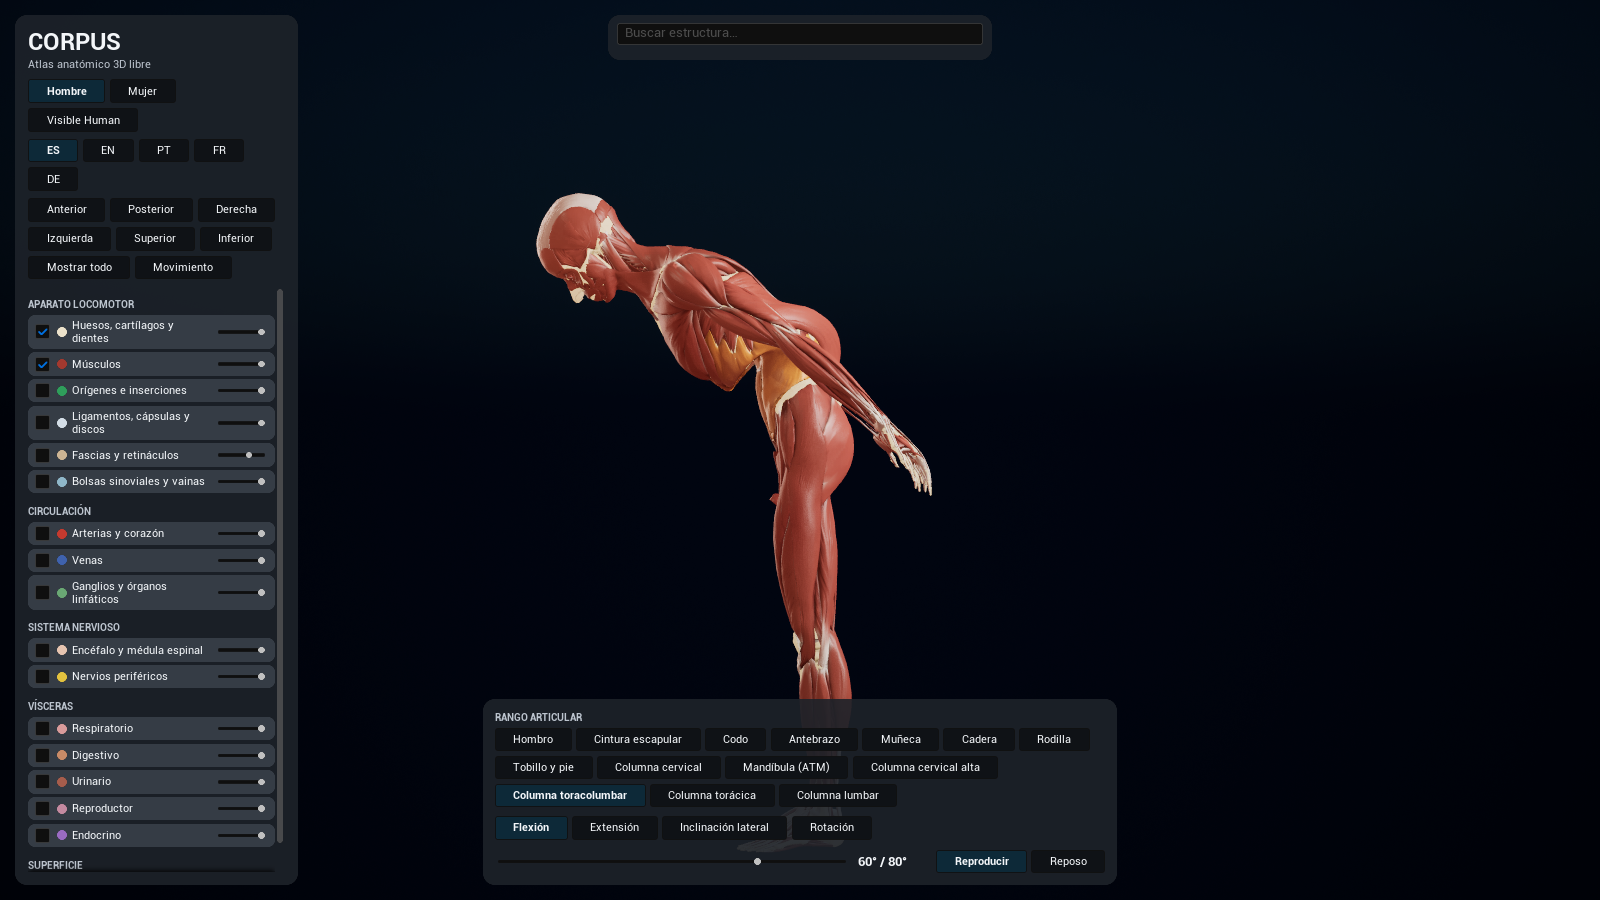
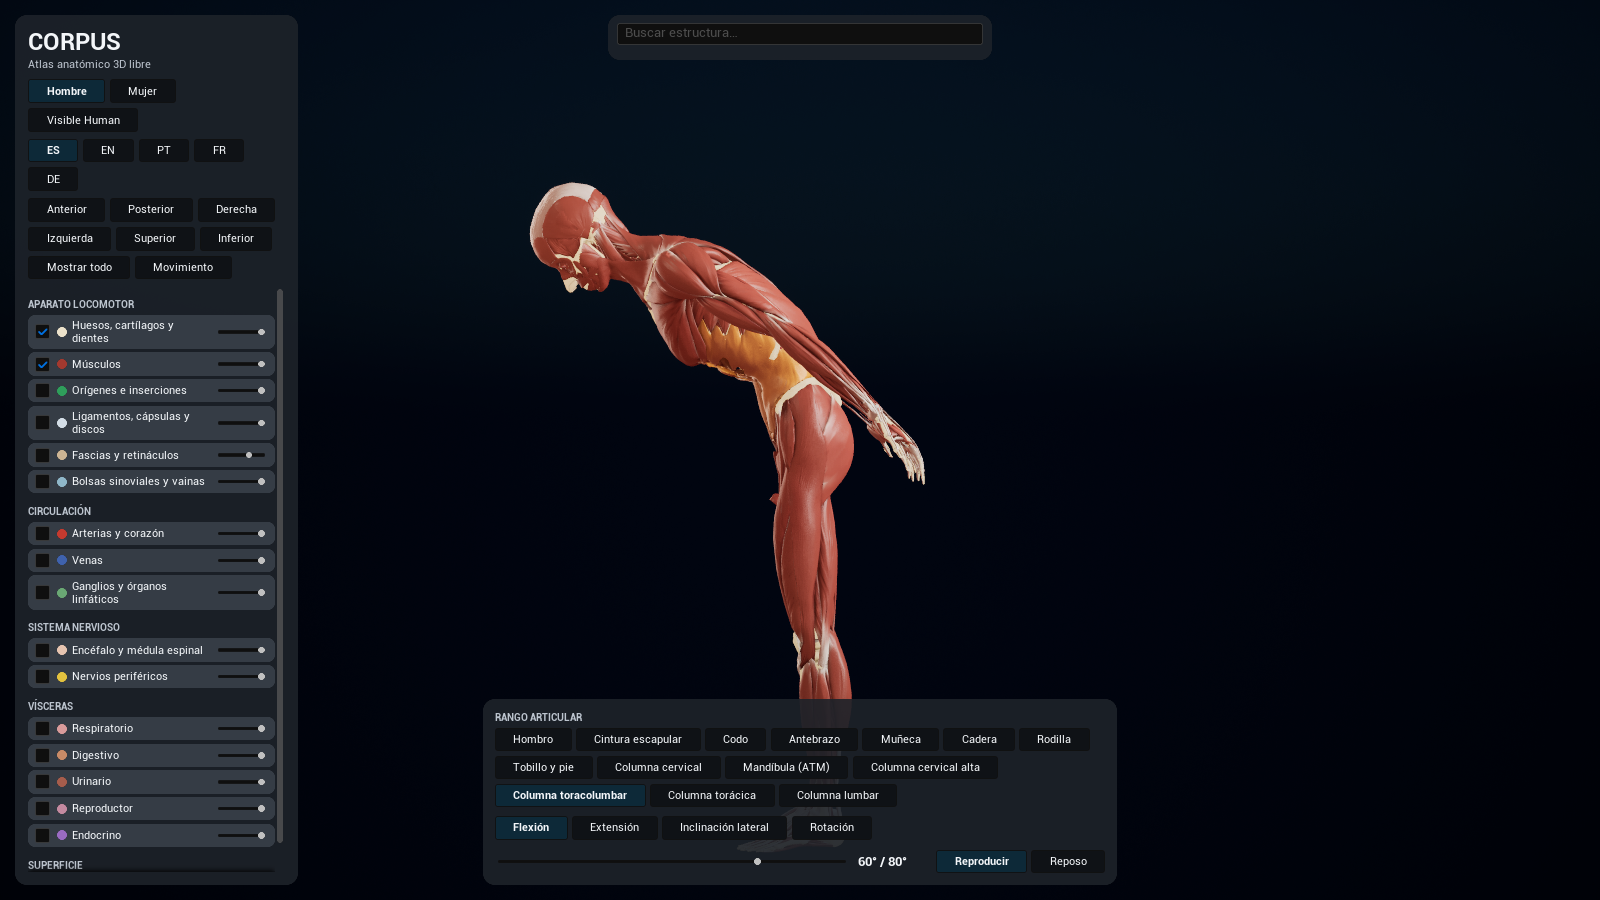
Unreal movimiento: tronco repartido y dorsal, pectoral y redondo mayor pegados al torax
La flexion de tronco se reparte entre S1, L3 y T12 (sin joroba lumbar). Dorsal ancho, pectoral mayor y
redondo mayor: solo la zona del tendon sigue al humero y el material los mantiene sobre la parrilla
costal (contorno del torax en la textura de postura). Capturas mov_00 a mov_12 rehechas.

Changed region(s): [[0.3125, 0.1867, 0.5938, 0.56]]

diff --git a/tools/unreal/movimiento.js b/tools/unreal/movimiento.js
@@ -29,8 +29,9 @@ try { ({ chromium } = require('playwright')); }
 catch (e) { console.error('Falta Playwright: npm i playwright (o NODE_PATH a una instalación existente)'); process.exit(1); }
 
 const RAIZ = path.resolve(__dirname, '..', '..');
-const URL = process.argv[2] || 'http://localhost:8765/index.html';
-const IMP = path.resolve(process.argv[3] || path.join(RAIZ, 'unreal', 'CorpusAtlas', 'Importar'));
+const ARGS = process.argv.slice(2).filter(a => !a.startsWith('--'));   // --sin-pesos: solo posturas (no toca los GLB)
+const URL = ARGS[0] || 'http://localhost:8765/index.html';
+const IMP = path.resolve(ARGS[1] || path.join(RAIZ, 'unreal', 'CorpusAtlas', 'Importar'));
 const CUERPOS = ['hombre', 'mujer'];            // el Visible Human no se mueve en la web
 const ROM_FUERA = ['dedos', 'pulgar', 'dedospie'];
 const PASO = 5;
@@ -99,6 +100,17 @@ const PREPARA = `(async()=>{
     const c=new V3((x0+x1)/2,(y0+y1)/2,(z0+z1)/2);let r=0;for(let i=0;i<n;i++)r=Math.max(r,Math.hypot(pos[i*3]-c.x,pos[i*3+1]-c.y,pos[i*3+2]-c.z));
     const m={userData:{c:{en,side},sys},geometry:{attributes:{position:{array:pos}},boundingSphere:{center:c,radius:r},index:null}};
     const Ws=L.map(k=>{let W=null;try{W=weightsFor(m,jn(k));}catch(e){W=null;}if(/^ankle_st_/.test(k)&&en==='Talus')W=null;return [W,!!(m.userData.lin&&m.userData.lin[jn(k)])];});
+    /* Dorsal ancho, pectoral mayor y redondo mayor (mejora sobre la web): sus pesos de hombro van a escalones (sectores angulares de shRig) y dejan que
+       medio vientre muscular gire con el brazo; la web lo arregla después relajando la malla en la CPU. Aquí: solo los
+       últimos centímetros junto al tendón siguen al húmero (la inserción está a ~6 cm de la articulación), el vientre
+       queda sobre el tórax y el músculo se estira entre ambos. Peso suave por distancia al punto de inserción. */
+    const TD=[[/^Latissimus dorsi muscle$/,/^(shoulder|acr|sc)$/,0.02,0.09],[/^(Sternocostal head|Abdominal part) of pectoralis major muscle$/,/^(shoulder|acr|sc)$/,0.03,0.11],
+      [/^Clavicular head of pectoralis major muscle$/,/^(shoulder|acr)$/,0.03,0.09],[/^Teres major muscle$/,/^shoulder$/,0.02,0.07]].find(x=>x[0].test(en));
+    if(TD&&(side==='derecho'||side==='izquierdo')){const Sd=side==='derecho'?'R':'L',seg=SEGS['arm_'+Sd],A=seg[0],B=seg[1],ax=B.x-A.x,ay=B.y-A.y,az=B.z-A.z,L2=ax*ax+ay*ay+az*az;
+      let bi=0,bd=1e9;for(let i=0;i<n;i++){const px=pos[i*3]-A.x,py=pos[i*3+1]-A.y,pz=pos[i*3+2]-A.z;let t=(px*ax+py*ay+pz*az)/L2;t=t<0?0:t>1?1:t;const dx=px-ax*t,dy=py-ay*t,dz=pz-az*t,d=dx*dx+dy*dy+dz*dz+(t<0.06?0.0004:0);if(d<bd){bd=d;bi=i;}}
+      const Ix=pos[bi*3],Iy=pos[bi*3+1],Iz=pos[bi*3+2],Wd=new Float32Array(n);
+      for(let i=0;i<n;i++){let t=(Math.hypot(pos[i*3]-Ix,pos[i*3+1]-Iy,pos[i*3+2]-Iz)-TD[2])/TD[3];t=t<0?0:t>1?1:t;Wd[i]=1-t*t*(3-2*t);}
+      L.forEach((k,q)=>{const [nd,sd]=k.split('_');if(sd===Sd&&TD[1].test(nd))Ws[q]=[Wd,true];else if(/^(elbow|fore|wrist|hip|knee)$/.test(nd)||(sd&&sd!==Sd&&/^(shoulder|acr|sc)$/.test(nd)))Ws[q]=[null,false];});}
     /* articulaciones que mueven la pieza (algún vértice con peso ≥ 0,002), en el orden en que las aplica deform() */
     let S=[];for(let k=0;k<NA;k++){const W=Ws[k][0];if(!W)continue;let mx=0;for(let v=0;v<n;v++)if(W[v]>mx)mx=W[v];if(mx>=0.002)S.push({i:k+1,W,lin:Ws[k][1],mx});}
     /* articulaciones seguidas (en este orden) que pesan lo mismo en toda la pieza van juntas en un hueco, hasta 3:
@@ -156,19 +168,56 @@ const PREPARA = `(async()=>{
     rom.push({ id: j.id, n: j.n, lados: j.sided, movs });
     console.log('  ROM %s: %d movimientos', j.id, movs.length);
   }
-  const salida = { version: 1, unidades: 'm, glTF (Y arriba)', paso: PASO, ax: R.AX, ax_de: R.L.slice(-3),
-    articulaciones: R.L.map((k, i) => ({ id: k, pivote: R.piv[i] })), rom };
+  /* ── mejora sobre la web: la columna toracolumbar no gira en una sola bisagra ──
+     En la web todo el giro de «tronco» ocurre en L3 y la zona lumbar hace joroba. Aquí se reparte entre la charnela
+     lumbosacra (lumb, S1), L3 (trunk) y la toracolumbar (thor, T12), con el reparto fisiológico de cada movimiento:
+     la flexión es sobre todo lumbar; la rotación, casi toda torácica (las carillas lumbares la bloquean). */
+  const REPARTO = [[0.42, 0.26, 0.32], [0.45, 0.25, 0.30], [0.30, 0.28, 0.42], [0.08, 0.17, 0.75]];   // flexión, extensión, inclinación, rotación → [lumb, trunk, thor]
+  const iL = R.L.indexOf('lumb'), iT = R.L.indexOf('trunk'), iH = R.L.indexOf('thor');
+  const tronco = rom.find(r => r.id === 'tronco');
+  if (tronco) tronco.movs.forEach((M, mi) => { const rp = REPARTO[mi] || REPARTO[0];
+    for (const S of ['R', 'L']) if (M[S]) M[S] = M[S].map(fr => { const out = [];
+      for (let k = 0; k < fr.length; k += 8) { const o = fr.slice(k, k + 8);
+        if (o[0] !== iT) { out.push(o); continue; }
+        [[iL, rp[0]], [iT, rp[1]], [iH, rp[2]]].forEach(([i, f]) => out.push([i, o[1], o[2], o[3], Math.round(o[4] * f * 1e5) / 1e5, 0, 0, 0])); }
+      return out.sort((a, b) => a[0] - b[0]).flat(); }); });
+
+  /* ── contorno de la parrilla costal por alturas (para pegar el dorsal ancho al tórax, como latHug de la web) ──
+     Cada centímetro de altura: elipse que envuelve costillas, cartílagos, esternón y vértebras torácicas
+     [centro z, radio x, radio z]. El material mide con ella cuánto se separa un punto de la pared torácica. */
+  const torax = (() => { const g = leeGLB(path.join(IMP, 'hombre', 'oseo.glb')), y0 = 1.06, dy = 0.0125, n = 32;
+    const caja = Array.from({ length: n }, () => [1e9, -1e9, 1e9, -1e9]);
+    for (const nodo of g.j.nodes) { if (nodo.mesh === undefined || !/\brib\b|^Costal cartilage|sternum|Xiphoid|^Vertebra T\d+/i.test((nodo.extras || {}).en || '')) continue;
+      const P = vista(g, g.j.meshes[nodo.mesh].primitives[0].attributes.POSITION);
+      for (let i = 0; i < P.length; i += 3) { const k = Math.round((P[i + 1] - y0) / dy); if (k < 0 || k >= n) continue; const c = caja[k];
+        if (P[i] < c[0]) c[0] = P[i]; if (P[i] > c[1]) c[1] = P[i]; if (P[i + 2] < c[2]) c[2] = P[i + 2]; if (P[i + 2] > c[3]) c[3] = P[i + 2]; } }
+    const f = v => Math.round(v * 1e4) / 1e4;
+    /* la caja se suaviza con sus vecinas: las costillas dejan huecos entre una y otra */
+    const filas = caja.map((c, k) => { let a = [0, 0, 0, 0], m = 0; for (let d = -2; d <= 2; d++) { const q = caja[k + d]; if (!q || q[0] > q[1]) continue; for (let t = 0; t < 4; t++) a[t] += q[t]; m++; }
+      if (!m) return [0, 0, 0]; a = a.map(v => v / m); return [f((a[2] + a[3]) / 2), f((a[1] - a[0]) / 2), f((a[3] - a[2]) / 2)]; });
+    return { y0, dy, filas }; })();
+  const abrazo = {};
+  for (const c of CUERPOS) { const g = leeGLB(path.join(IMP, c, 'muscular.glb'));
+    abrazo[c] = g.j.nodes.filter(nd => /^(Latissimus dorsi muscle|Teres major muscle|.* of pectoralis major muscle)$/.test((nd.extras || {}).en || '')).map(nd => nd.name); }
+
+  const SIN_PESOS = process.argv.includes('--sin-pesos');
+  const SOLO = (process.argv.find(a => a.startsWith('--solo=')) || '').slice(7);   // --solo=muscular: rehace los pesos de esa capa nada más
+  const jf = path.join(IMP, 'datos', 'movimiento.json');
+  const antes = (SIN_PESOS || SOLO) && fs.existsSync(jf) ? JSON.parse(fs.readFileSync(jf, 'utf8')) : null;
+  const salida = { version: 2, unidades: 'm, glTF (Y arriba)', paso: PASO, ax: R.AX, ax_de: R.L.slice(-3),
+    articulaciones: R.L.map((k, i) => ({ id: k, pivote: R.piv[i] })), rom, torax, abrazo, piezas: antes ? antes.piezas : {} };
   fs.mkdirSync(path.join(IMP, 'datos'), { recursive: true });
-  fs.writeFileSync(path.join(IMP, 'datos', 'movimiento.json'), JSON.stringify(salida));
+  fs.writeFileSync(jf, JSON.stringify(salida));
   console.log('Posturas: datos/movimiento.json');
+  if (SIN_PESOS) { console.log('Pesos: sin tocar (--sin-pesos)'); await b.close(); return; }
 
   /* ── pesos ── */
   let tv = 0, tm = 0, to = 0;
-  salida.piezas = {};
+  if (!SOLO) salida.piezas = {};
   for (const c of CUERPOS) {
-    const P = salida.piezas[c] = {};
+    const P = salida.piezas[c] = salida.piezas[c] || {};
     const dir = path.join(IMP, c);
-    for (const f of fs.readdirSync(dir).filter(x => x.endsWith('.glb'))) {
+    for (const f of fs.readdirSync(dir).filter(x => x.endsWith('.glb') && (!SOLO || x === SOLO + '.glb'))) {
       const g = leeGLB(path.join(dir, f)), nuevos = [];
       let mv = 0, ov = 0, nv = 0;
       for (let ni = 0; ni < g.j.nodes.length; ni++) {

diff --git a/unreal/CorpusAtlas/Content/Python/corpus_importar.py b/unreal/CorpusAtlas/Content/Python/corpus_importar.py
@@ -147,16 +147,50 @@ HLSL_POSTURA = r"""
 float3 g = float3(P.x, P.z, P.y) * 0.01;
 float3 g0 = g;
 float4 qt = float4(0, 0, 0, 1);
-float js[8] = { J0, J1, J2, J3, J4, J5, J6, J7 };
-float ws[8] = { U0.x, U0.y, U1.x, U1.y, U2.x, U2.y, U3.x, U3.y };
-[loop] for (int k = 0; k < 8; k++)
+float js[9] = { J0, J1, J2, J3, J4, J5, J6, J7, 0 };
+float ws[9] = { U0.x, U0.y, U1.x, U1.y, U2.x, U2.y, U3.x, U3.y, 0 };
+bool abrazado = false;
+float wl = 0;
+[loop] for (int k = 0; k < 9; k++)
 {
     float jv = js[k];
+    int code = (int)round(abs(jv));
+    // Antes de girar el tronco (o al acabar): el dorsal ancho y el redondo mayor no se despegan de la parrilla costal.
+    // Fila 3 de la textura = contorno del tórax por alturas (centro z, radio x, radio z). k = distancia relativa al
+    // contorno (1 = sobre las costillas). Cada punto conserva su k de reposo; solo cerca del húmero (peso alto) se le
+    // deja holgura para el pliegue axilar posterior. Misma regla que latHug() de la web: d0 + 6 mm + libre² · 7 cm.
+    bool tronco = (jv == 0) || ((code & 31) >= NA_TRONCO);
+    if (!abrazado && tronco)
+    {
+        abrazado = true;
+        if (HUG > 0 && wl > 0.0005)
+        {
+            float h0 = clamp((g0.y - Y0) / DY, 0, 31), h1 = clamp((g.y - Y0) / DY, 0, 31);
+            int a0 = (int)floor(h0), a1 = (int)floor(h1);
+            float3 c0 = lerp(Tex.Load(int3(a0, 3, 0)).xyz, Tex.Load(int3(min(a0 + 1, 31), 3, 0)).xyz, h0 - a0);
+            float3 c1 = lerp(Tex.Load(int3(a1, 3, 0)).xyz, Tex.Load(int3(min(a1 + 1, 31), 3, 0)).xyz, h1 - a1);
+            if (c0.y > 0.01 && c1.y > 0.01)
+            {
+                float k0 = length(float2(g0.x / c0.y, (g0.z - c0.x) / c0.z));
+                float k1 = length(float2(g.x / c1.y, (g.z - c1.x) / c1.z));
+                float libre = saturate((wl - 0.25) / 0.6);
+                // la holgura crece sin corte hacia el húmero (libre → 1): un corte brusco plegaba el músculo en la axila
+                float l3 = libre * libre * libre;
+                float kmax = k0 + (0.006 + libre * libre * 0.07 + l3 * l3 * 1.5) / (0.5 * (c1.y + c1.z));
+                float kt = clamp(k1, min(k0, 1.03), kmax);
+                float hy = (g.y - Y0) / DY;
+                float val = saturate(hy) * saturate(31 - hy) * saturate(HUG);
+                float s = lerp(1, kt / max(k1, 1e-4), val);
+                g.x *= s;
+                g.z = c1.x + (g.z - c1.x) * s;
+            }
+        }
+    }
     if (jv == 0) break;
     float w = saturate(ws[k]);
+    if (k == 0 && !tronco) wl = w;
     if (w < 0.0005) continue;
     bool lin = jv < 0;
-    int code = (int)round(abs(jv));
     [loop] for (int t = 0; t < 3; t++)
     {
         int j = (code & 31) - 1;
@@ -192,6 +226,14 @@ return float3(g.x, g.z, g.y);
 """
 
 
+def _datos_mov():
+    for f in (os.path.join(IMPORTAR, "datos", "movimiento.json"), os.path.join(DATOS, "movimiento.json")):
+        if os.path.exists(f):
+            with open(f, encoding="utf-8") as h:
+                return json.load(h)
+    raise RuntimeError("Falta movimiento.json: node tools/unreal/movimiento.js")
+
+
 def _custom(g, codigo, entradas, tipo, extra=None, desc=""):
     cu = g.n(unreal.MaterialExpressionCustom, -500)
     cu.set_editor_property("description", desc)
@@ -225,7 +267,10 @@ def _postura(g):
     if negro:
         tex.set_editor_property("texture", negro)
     tex.set_editor_property("sampler_type", unreal.MaterialSamplerType.SAMPLERTYPE_COLOR)
-    cu = _custom(g, HLSL_POSTURA, ["Tex", "P", "U0", "U1", "U2", "U3"] + ["J%d" % i for i in range(8)], CMOT.CMOT_FLOAT3,
+    mov = _datos_mov()
+    codigo = (HLSL_POSTURA.replace("NA_TRONCO", str(len(mov["articulaciones"]) - 2))
+              .replace("Y0", repr(float(mov["torax"]["y0"]))).replace("DY", repr(float(mov["torax"]["dy"]))))
+    cu = _custom(g, codigo, ["Tex", "P", "U0", "U1", "U2", "U3"] + ["J%d" % i for i in range(8)] + ["HUG"], CMOT.CMOT_FLOAT3,
                  extra=[("Q", CMOT.CMOT_FLOAT4)], desc="Postura (rig de la web)")
     g.une(tex, cu, "Tex")
     g.une(g.n(unreal.MaterialExpressionPreSkinnedPosition), cu, "P")
@@ -233,6 +278,7 @@ def _postura(g):
         g.une(g.n(unreal.MaterialExpressionTextureCoordinate, coordinate_index=c), cu, "U%d" % c)
     for i in range(8):      # articulación de cada hueco: datos primitivos 12–19 (ACorpusCuerpo::CargarCapa)
         g.une(g.esc("Hueco%d" % i, 0.0, cpd=12 + i), cu, "J%d" % i)
+    g.une(g.esc("Abrazo", 0.0, cpd=20), cu, "HUG")      # 1 = dorsal ancho y redondo mayor: pegados a la parrilla costal
     S, D = unreal.MaterialVectorCoordTransformSource, unreal.MaterialVectorCoordTransform
     wpo = _transformar(g, cu, S.TRANSFORMSOURCE_LOCAL, D.TRANSFORM_WORLD)
     g.sal(wpo, unreal.MaterialProperty.MP_WORLD_POSITION_OFFSET)

diff --git a/unreal/CorpusAtlas/Source/CorpusAtlas/CorpusDatos.cpp b/unreal/CorpusAtlas/Source/CorpusAtlas/CorpusDatos.cpp
@@ -202,6 +202,25 @@ void UCorpusDatos::CargarMovimiento()
 			}
 		}
 	}
+	// contorno del tórax por alturas (fila 3 de la textura de postura) y piezas que se pegan a él (dorsal ancho, redondo mayor)
+	const TSharedPtr<FJsonObject>* TJ = nullptr;
+	if (J->TryGetObjectField(TEXT("torax"), TJ))
+	{
+		for (const auto& F : (*TJ)->GetArrayField(TEXT("filas")))
+		{
+			const TArray<TSharedPtr<FJsonValue>>& V = F->AsArray();
+			Torax.Add(FVector3f((float)V[0]->AsNumber(), (float)V[1]->AsNumber(), (float)V[2]->AsNumber()));
+		}
+	}
+	const TSharedPtr<FJsonObject>* AJ = nullptr;
+	if (J->TryGetObjectField(TEXT("abrazo"), AJ))
+	{
+		for (const auto& Cu : (*AJ)->Values)
+		{
+			const TArray<TSharedPtr<FJsonValue>>* Ids = nullptr;
+			if (Cu.Value.IsValid() && Cu.Value->TryGetArray(Ids)) { for (const auto& X : *Ids) { Abrazo.Add(FString(Cu.Key) + TEXT("/") + X->AsString()); } }
+		}
+	}
 	const TArray<TSharedPtr<FJsonValue>>* R = nullptr;
 	if (J->TryGetArrayField(TEXT("rom"), R))
 	{

diff --git a/unreal/CorpusAtlas/Source/CorpusAtlas/CorpusCuerpo.cpp b/unreal/CorpusAtlas/Source/CorpusAtlas/CorpusCuerpo.cpp
@@ -106,6 +106,12 @@ void ACorpusCuerpo::CrearTexturaPostura()
 		const FVector3f& P = D->PivotesArticulaciones()[i];
 		Postura[AnchoPostura + i] = FVector4f(P.X, P.Y, P.Z, 0.f);
 	}
+	// Fila 3: contorno de la parrilla costal por alturas (el material pega a él el dorsal ancho y el redondo mayor)
+	for (int32 i = 0; D && i < FMath::Min(AnchoPostura, D->ContornoTorax().Num()); ++i)
+	{
+		const FVector3f& T = D->ContornoTorax()[i];
+		Postura[AnchoPostura * 3 + i] = FVector4f(T.X, T.Y, T.Z, 0.f);
+	}
 	SubirPostura();
 }
 
@@ -280,6 +286,7 @@ void ACorpusCuerpo::CargarCapa(const FString& Clave)
 			C->SetCustomPrimitiveDataVector4(12, FVector4(V[0], V[1], V[2], V[3]));
 			C->SetCustomPrimitiveDataVector4(16, FVector4(V[4], V[5], V[6], V[7]));
 		}
+		C->SetCustomPrimitiveDataFloat(20, D->SePegaAlTorax(Carpeta, P.Id) ? 1.f : 0.f);
 		if (RangoActual >= 0) { AjustarLimites(C); }
 		Piezas.Add(P.Id, C);
 		Ids.Add(P.Id);

diff --git a/unreal/CorpusAtlas/Source/CorpusAtlas/CorpusDatos.h b/unreal/CorpusAtlas/Source/CorpusAtlas/CorpusDatos.h
@@ -117,8 +117,15 @@ public:
 	/** Articulaciones que mueven la pieza en ese cuerpo (carpeta «hombre» o «mujer»): códigos para los datos primitivos 12–19. */
 	const TArray<float>* HuecosMovimiento(const FString& Carpeta, const FString& Id) const { return Huecos.Find(Carpeta + TEXT("/") + Id); }
 
+	/** Contorno de la parrilla costal por alturas: centro z, radio x, radio z (glTF, m). */
+	const TArray<FVector3f>& ContornoTorax() const { return Torax; }
+	/** ¿La pieza se mantiene pegada a la pared torácica al mover el brazo? (dorsal ancho, redondo mayor) */
+	bool SePegaAlTorax(const FString& Carpeta, const FString& Id) const { return Abrazo.Contains(Carpeta + TEXT("/") + Id); }
+
 private:
 	void CargarMovimiento();
+	TArray<FVector3f> Torax;
+	TSet<FString> Abrazo;
 	TMap<FString, TArray<float>> Huecos;
 	TArray<FVector3f> Pivotes;
 	TArray<FString> NombresArt;

diff --git a/unreal/LEEME.md b/unreal/LEEME.md
@@ -118,6 +118,21 @@ Capturas: `unreal/capturas/mov_00…10` (hombro, codo, cadera, rodilla, tronco, 
 Color del músculo: parámetro `Desaturar` (tabla `DESATURAR`, músculo 0,30) y menos dispersión roja; antes salía rojo puro.
 Reimportar las mallas (`importar_mallas`) tarda 1 h 45 min; `_aplanar` sustituye la malla anterior por la recién importada.
 
+### Mejoras sobre la web (2026-11-20, a petición del usuario: «anatómicamente el cuerpo no es así»)
+- **Columna toracolumbar repartida:** en la web todo el giro de «tronco» ocurre en L3 y la zona lumbar hace joroba.
+  `movimiento.js` lo reparte entre S1 (`lumb`), L3 (`trunk`) y T12 (`thor`) con la tabla `REPARTO` (flexión 42/26/32 %,
+  extensión 45/25/30, inclinación 30/28/42, rotación 8/17/75).
+- **Dorsal ancho, pectoral mayor y redondo mayor:** los pesos de la web dejan que medio vientre muscular gire con el brazo
+  (y van a escalones; la web lo arregla relajando la malla en la CPU). Aquí solo la zona del tendón sigue al húmero: peso
+  suave por distancia al punto de inserción (tabla `TD` de `movimiento.js`); el vientre queda sobre el tórax y se estira.
+- **Pegados a la parrilla costal** (`abrazo` en `movimiento.json`, dato primitivo 20): fila 3 de la textura de postura =
+  contorno del tórax cada 1,25 cm (centro z, radio x, radio z). Antes de girar el tronco, el material devuelve cada punto a
+  su distancia de reposo al contorno, con holgura creciente hacia el húmero (misma regla que `latHug`, sin corte brusco).
+- `node tools/unreal/movimiento.js --sin-pesos` rehace solo las posturas; `--solo=muscular` rehace los pesos de una capa
+  (luego `ci.importar_mallas(["hombre/muscular", "mujer/muscular"])`, unos 12 minutos).
+- Pendiente de este repaso: pliegues finos en la axila (deltoides, bíceps, tríceps largo y manguito se cruzan), el brazo
+  levantado de la mujer sale pálido, y revisar de cerca los demás rangos (rotaciones del hombro, escápula, cadera).
+
 Queda fuera de este paso (la web lo hace después de deformar, en la CPU): `musPost` (músculos del hombro que no atraviesan la
 cabeza humeral ni el tórax), `latHug`, `kneePush`, la deformación por fibras del pectoral y el dorsal, y los dedos de la mano
 y del pie (no caben en 8 pares sin otro grupo como `ax`). El clic del ratón usa la colisión de reposo.
